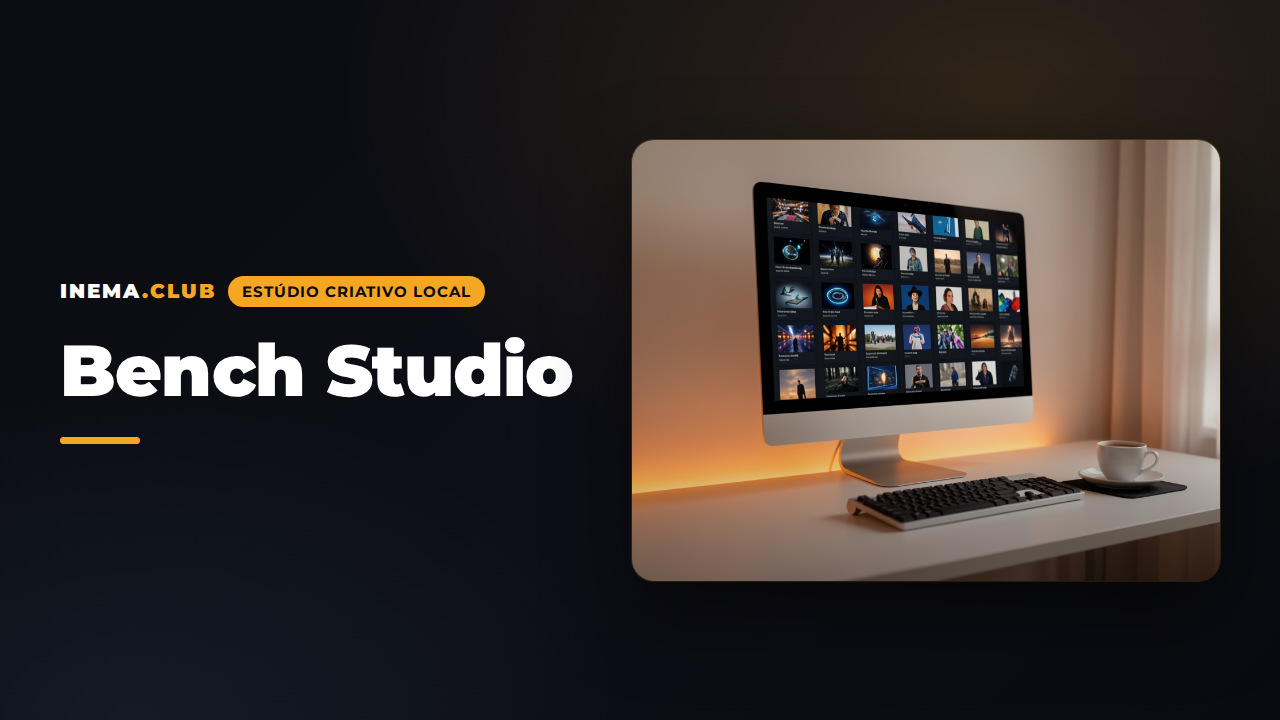
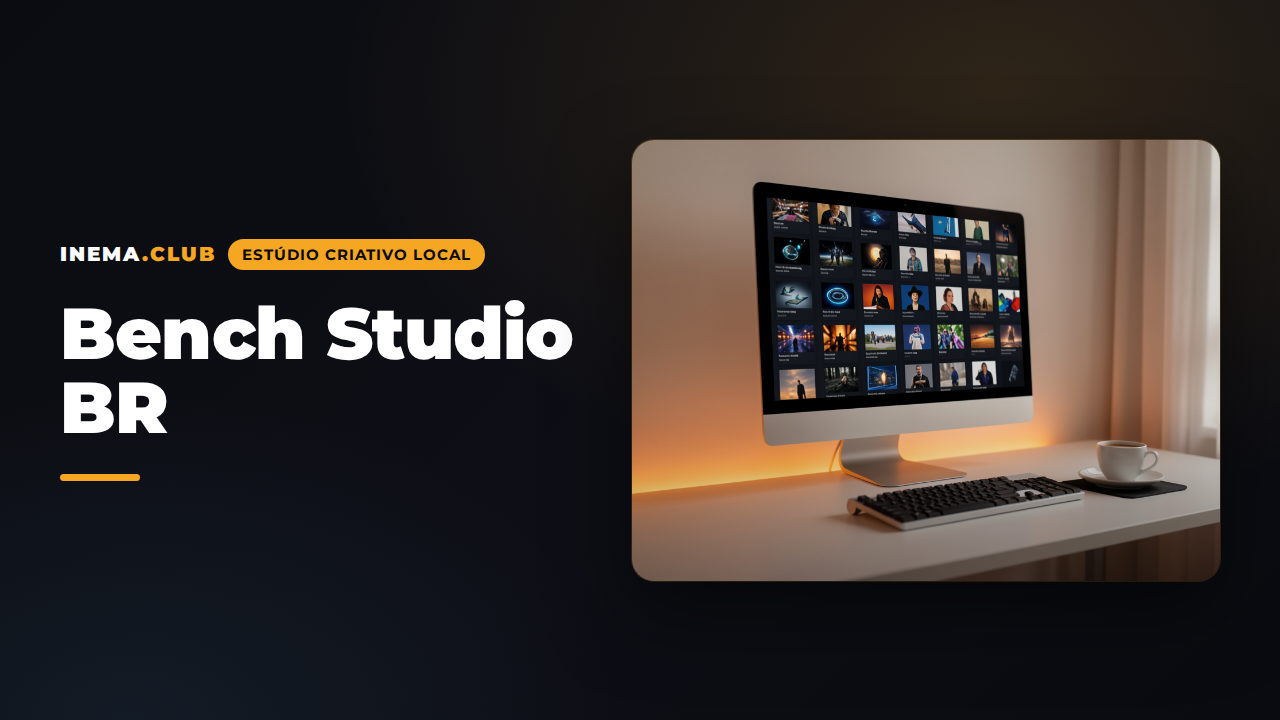
site: o guia se chama Bench Studio BR
Sao tres edicoes do Bench Studio catalogadas (public, en, br) e o guia daqui
dizia so 'Bench Studio' — quem chegava pelo portal nao sabia em qual tinha
caido. Nome no titulo, na marca do nav, na descricao e no rodape; capa refeita.

Changed region(s): [[0.0312, 0.3056, 0.4688, 0.6722]]

diff --git a/guia/index.html b/guia/index.html
@@ -1,11 +1,11 @@
 <!DOCTYPE html>
-<!-- Landing + guia do Bench Studio. CSS do padrao INEMA (projetos-landing-guia), conteudo proprio. -->
+<!-- Landing + guia do Bench Studio BR. CSS do padrao INEMA (projetos-landing-guia), conteudo proprio. -->
 <html lang="pt-BR">
 <head>
 <meta charset="utf-8">
 <meta name="viewport" content="width=device-width, initial-scale=1">
-<title>Bench Studio — o estúdio criativo que roda na sua máquina</title>
-<meta name="description" content="Bench Studio: 73 rotas de imagem e vídeo em 5 provedores, refino de prompt, arquivos locais e um livro-caixa que mostra o custo real. Guia de uso completo em português.">
+<title>Bench Studio BR — o estúdio criativo que roda na sua máquina</title>
+<meta name="description" content="Bench Studio BR: 73 rotas de imagem e vídeo em 5 provedores, refino de prompt, arquivos locais e um livro-caixa que mostra o custo real. Guia de uso completo em português.">
 <link rel="preconnect" href="https://fonts.googleapis.com">
 <link rel="preconnect" href="https://fonts.gstatic.com" crossorigin>
 <link href="https://fonts.googleapis.com/css2?family=Sora:wght@400;600;800&family=Inter:wght@400;500;600&family=JetBrains+Mono:wght@400;600&display=swap" rel="stylesheet">
@@ -95,7 +95,7 @@
 <body>
 
 <nav><div class="wrap">
-  <a class="brand" href="#top"><span class="emoji">🎛</span> Bench Studio</a>
+  <a class="brand" href="#top"><span class="emoji">🎛</span> Bench Studio BR</a>
   <span class="sep">|</span>
   <span class="clubpro">
     <a class="inema" href="https://inema.club" target="_blank" rel="noopener">INEMA.CLUB</a>
@@ -348,7 +348,7 @@ OPENROUTER_API_KEY=<span class="s">sua-chave</span></pre></div>
 <footer>
   <div class="wrap">
     <div class="pill">Node 22.5+</div><div class="pill">React + Vite</div><div class="pill">node:sqlite</div><div class="pill">MCP</div><div class="pill">MIT</div>
-    <p style="margin-top:18px">Bench Studio · suas chaves, seus arquivos, seu custo à vista ·
+    <p style="margin-top:18px">Bench Studio BR · suas chaves, seus arquivos, seu custo à vista ·
       <a href="https://github.com/inematds/bench-studio-br">inematds/bench-studio-br</a> ·
       <a href="https://inema.club">INEMA.CLUB</a></p>
   </div>
